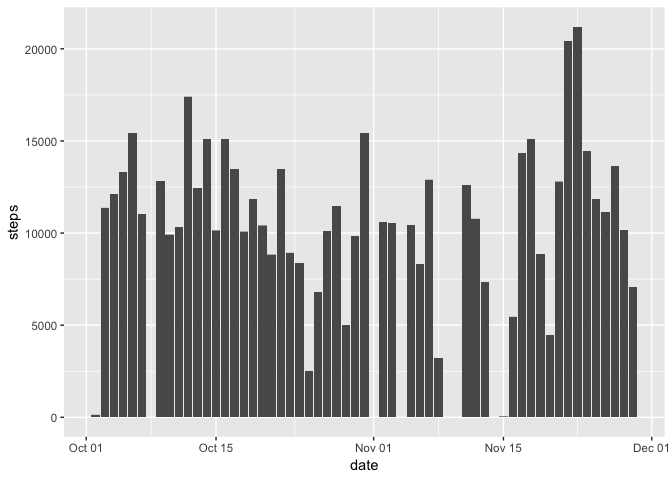
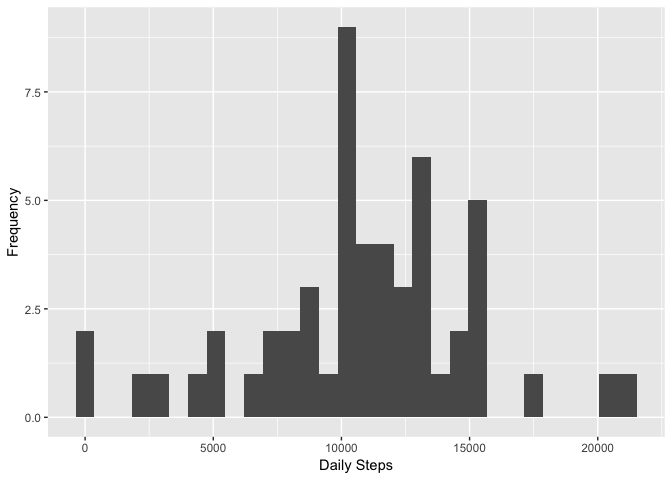
Histogram fixed! (I had a time series plot)

diff --git a/PA1_template.html b/PA1_template.html
@@ -208,8 +208,10 @@ activityDF &lt;- read_csv(file = &quot;activity.csv&quot;)</code></pre>
 </div>
 <div id="histogram-of-total-steps-taken-each-day" class="section level3">
 <h3>Histogram of total steps taken each day</h3>
-<pre class="r"><code>ggplot(data = activityDF, aes(date, steps)) + geom_histogram(stat = &quot;identity&quot;)</code></pre>
[1 lines of base64/hex data omitted]
+<pre class="r"><code>#ggplot(data = activityDF, aes(date, steps)) + geom_histogram(stat = &quot;identity&quot;)  #oops this wasn't a histogram
+per_day &lt;- activityDF %&gt;% group_by(date) %&gt;% summarize(daily_sum = sum(steps))
+ggplot(data = per_day, aes(daily_sum)) + geom_histogram() + labs(x=&quot;Daily Steps&quot;, y=&quot;Frequency&quot;, main=&quot;Histogram of Daily Step Totals&quot;)</code></pre>
[1 lines of base64/hex data omitted]
 </div>
 <div id="mean-and-median-number-of-steps-each-day" class="section level3">
 <h3>Mean and Median number of steps each day</h3>

diff --git a/PA1_template.md b/PA1_template.md
@@ -34,7 +34,9 @@ activityDF <- read_csv(file = "activity.csv")
 
 
 ```r
-ggplot(data = activityDF, aes(date, steps)) + geom_histogram(stat = "identity")
+#ggplot(data = activityDF, aes(date, steps)) + geom_histogram(stat = "identity")  #oops this wasn't a histogram
+per_day <- activityDF %>% group_by(date) %>% summarize(daily_sum = sum(steps))
+ggplot(data = per_day, aes(daily_sum)) + geom_histogram() + labs(x="Daily Steps", y="Frequency", main="Histogram of Daily Step Totals")
 ```
 
 ![](PA1_template_files/figure-html/unnamed-chunk-3-1.png)<!-- -->
